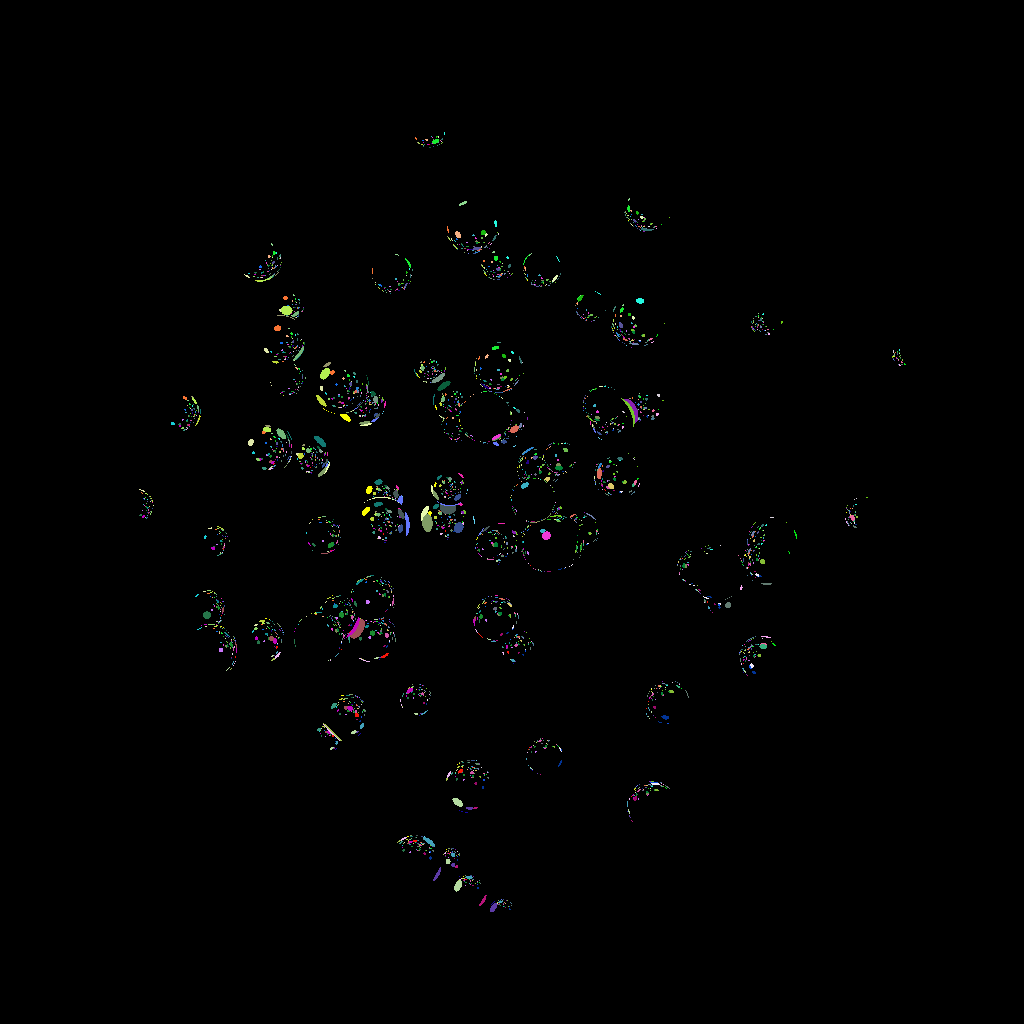
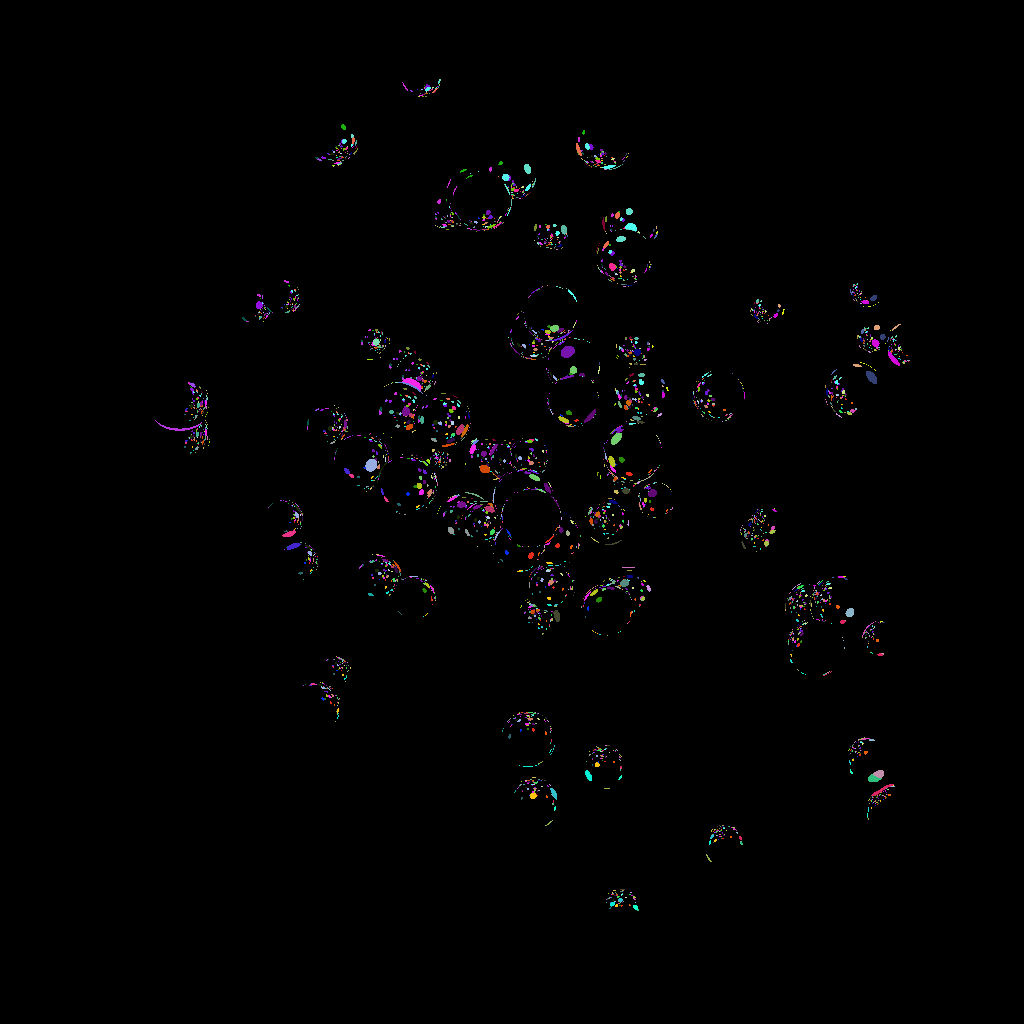
Improved scene data

diff --git a/rtcuda.py b/rtcuda.py
@@ -1,6 +1,8 @@
 
 print("Importing")
 
+import struct
+
 import pycuda.autoinit
 import pycuda.driver as drv
 import numpy as np
@@ -22,16 +24,20 @@ pix = width * height
 
 print("Building scene data")
 
-data_count = 75
-data_size = 7 * data_count
+object_count = 0
 
-#data = np.array([0, 0, 0, 1], np.float32)
-data = np.empty(data_size, np.float32)
+scene = bytes();
 
-for i in range(0,data_size,7):
-	data[i:(i+3)] = np.random.uniform(-1, 1, 3)
-	data[i+3] = np.random.uniform(.05, .1)
-	data[(i+4):(i+7)] = np.random.uniform(0, 1, 3)
+for i in range(0, 75):
+	scene += struct.pack("12sf12s",
+		np.random.uniform(-1, 1, 3).astype(np.float32).tobytes(),
+		np.random.uniform(.05, .1),
+		np.random.uniform(0, 1, 3).astype(np.float32).tobytes())
+	object_count += 1
+
+print("Uploading scene data")
+
+gpu_scene = drv.to_device(scene)
 
 print("Building camera data")
 
@@ -55,8 +61,8 @@ init_ortho(
 	np.int32(width),
 	np.int32(height),
 	drv.In(cam),
-	np.float32(3.5),
-	np.float32(3.5),
+	np.float32(3.2),
+	np.float32(3.2),
 	block=comp_block,
 	grid=comp_grid)
 
@@ -68,16 +74,16 @@ rt(
 	buf,
 	np.int32(pix),
 	rays,
-	drv.In(data),
-	np.int32(data_count),
+	gpu_scene,
+	np.int32(object_count),
 	block=comp_block,
 	grid=comp_grid)
 rt(
 	buf,
 	np.int32(pix),
 	rays,
-	drv.In(data),
-	np.int32(data_count),
+	gpu_scene,
+	np.int32(object_count),
 	block=comp_block,
 	grid=comp_grid)
 
@@ -94,12 +100,11 @@ to_rgb(
 	block=comp_block,
 	grid=comp_grid)
 
-from PIL import Image
-
 print("Saving image")
 
-img = Image.new('RGB', (width, height))
-img.putdata(map(tuple, np.split(output, pix)))
+from PIL import Image
+
+img = Image.frombytes('RGB', (width, height), output)
 img.save('image.png')
 
 print("Done");

diff --git a/rtcuda.c b/rtcuda.c
@@ -1,5 +1,7 @@
 #define CUDART_NAN_F            __int_as_float(0x7fffffff)
 
+#include "stdio.h"
+
 __device__ void v_add(float *a, float *b, float *o) {
 	o[0] = a[0] + b[0];
 	o[1] = a[1] + b[1];
@@ -100,7 +102,7 @@ __global__ void init_ortho(Ray *rays, int width, int height, float* cam, float h
 	v_cpy(cam + 3, ray->dir);
 }
 
-__global__ void rt(BufElem *buf, int buf_size, Ray *rays, Sphere* data, int data_items) {
+__global__ void rt(BufElem *buf, int buf_size, Ray *rays, unsigned char* data, int data_items) {
 	const unsigned int i = blockIdx.x * blockDim.x + threadIdx.x;
 	if (i >= buf_size) return;
 
@@ -118,7 +120,9 @@ __global__ void rt(BufElem *buf, int buf_size, Ray *rays, Sphere* data, int data
 	bool hit_none = true;
 
 	for (int j = 0; j < data_items; j++) {
-		Sphere *obj = data + j;
+		Sphere *obj = (struct Sphere*) data;
+
+		// printf("%.2f\n", obj->center[0]);
 
 		float t_hit;
 
@@ -156,6 +160,8 @@ __global__ void rt(BufElem *buf, int buf_size, Ray *rays, Sphere* data, int data
 				v_cpy(obj->color, color);
 			}
 		}
+
+		data += sizeof(Sphere);
 	}
 
 	if (hit_none) {
